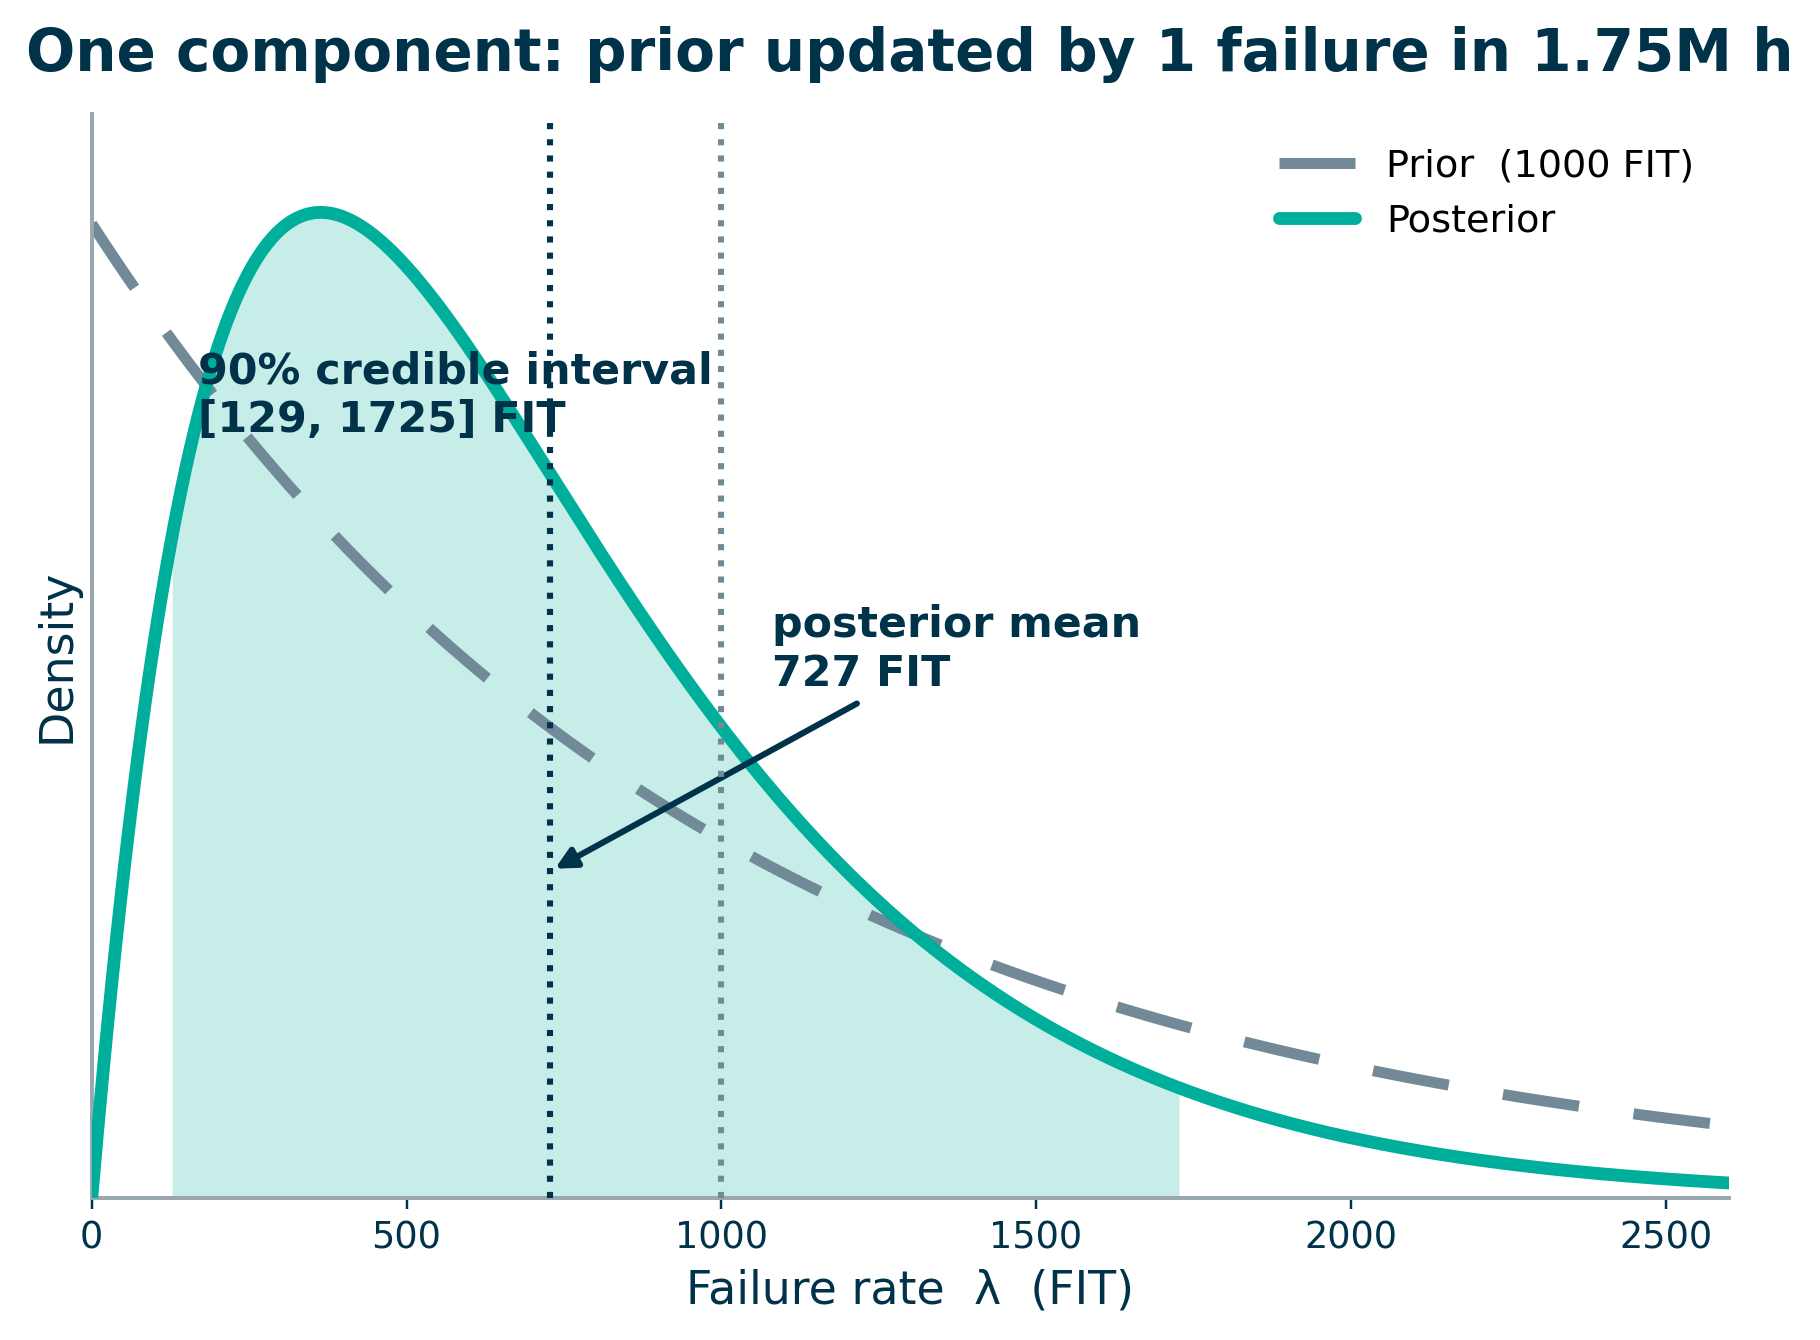
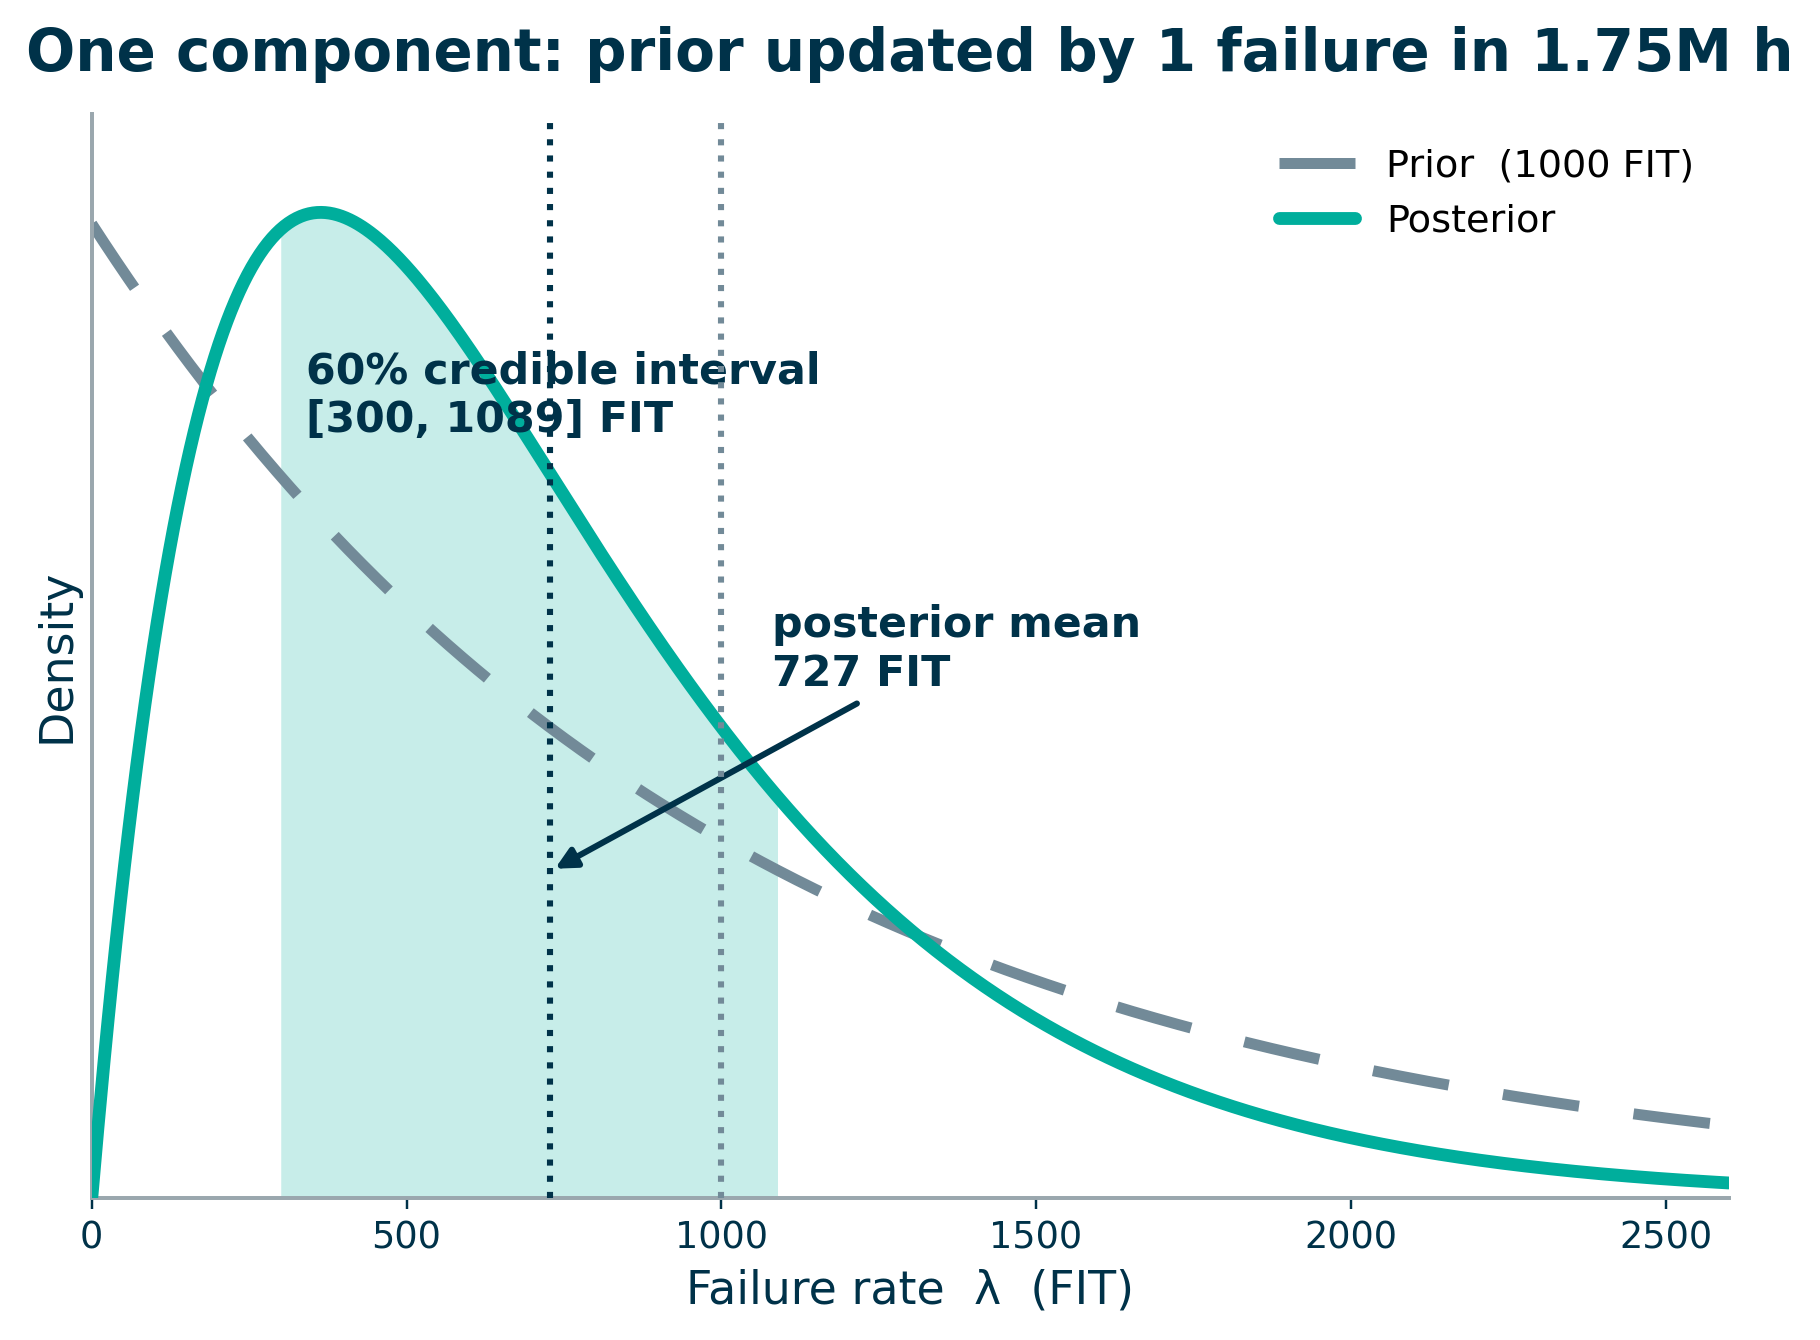
8

Changed region(s): [[0.0923, 0.1836, 0.4615, 0.9179], [0.4, 0.6119, 0.6462, 0.9179]]

diff --git a/graphs/slide08_one_component.py b/graphs/slide08_one_component.py
@@ -3,9 +3,10 @@
 The full worked example:
     prior      Gamma(1, 1e6 h)   = 1000 FIT (handbook)
     data       k = 1 failure in T = 1.75M operating hours
-    posterior  Gamma(2, 2.75e6)  -> mean 727 FIT, 90% CI [129, 1725] FIT
+    posterior  Gamma(2, 2.75e6)  -> mean 727 FIT
 
-The shaded band is the 90% credible interval under the posterior.
+The shaded band is the central CI credible interval under the posterior
+(set CI below; default 60%).
 """
 import numpy as np
 import matplotlib.pyplot as plt
@@ -18,6 +19,7 @@ apply_style()
 # --- knobs --------------------------------------------------------------- #
 PRIOR_ALPHA, PRIOR_BETA = 1.0, 1e6        # 1000 FIT handbook prior
 K, T = 1, 1.75e6                          # REX data
+CI = 0.60                                 # central credible-interval fraction
 XMAX = 2600
 # ------------------------------------------------------------------------- #
 
@@ -25,14 +27,16 @@ prior = gamma_fit(PRIOR_ALPHA, PRIOR_BETA)
 post  = gamma_fit(PRIOR_ALPHA + K, PRIOR_BETA + T)
 
 mean = post.mean()
-lo, hi = post.ppf(0.05), post.ppf(0.95)   # 90% credible interval
+tail = (1 - CI) / 2                       # central interval -> equal tails
+lo, hi = post.ppf(tail), post.ppf(1 - tail)
+print(f"posterior mean {mean:.0f} FIT, {CI*100:.0f}% CI [{lo:.0f}, {hi:.0f}] FIT")
 
 x = np.linspace(0, XMAX, 800)
 yp = post.pdf(x)
 
 fig, ax = plt.subplots(figsize=(9.6, 6.4))
 
-# shade the 90% credible interval under the posterior
+# shade the credible interval under the posterior
 mask = (x >= lo) & (x <= hi)
 ax.fill_between(x[mask], yp[mask], color=FILL, zorder=1)
 
@@ -45,7 +49,7 @@ ax.axvline(mean, color=NAVY, lw=2.0, ls=":", zorder=4)
 ax.axvline(1000, color=GREY, lw=2.0, ls=":", zorder=4)
 
 ax.text(lo + 40, yp.max() * 0.86,
-        f"90% credible interval\n[{lo:.0f}, {hi:.0f}] FIT",
+        f"{CI*100:.0f}% credible interval\n[{lo:.0f}, {hi:.0f}] FIT",
         color=NAVY, fontsize=14, fontweight="bold", va="top")
 ax.annotate(f"posterior mean\n{mean:.0f} FIT",
             xy=(mean, post.pdf(mean) * 0.45), xytext=(1080, yp.max() * 0.52),